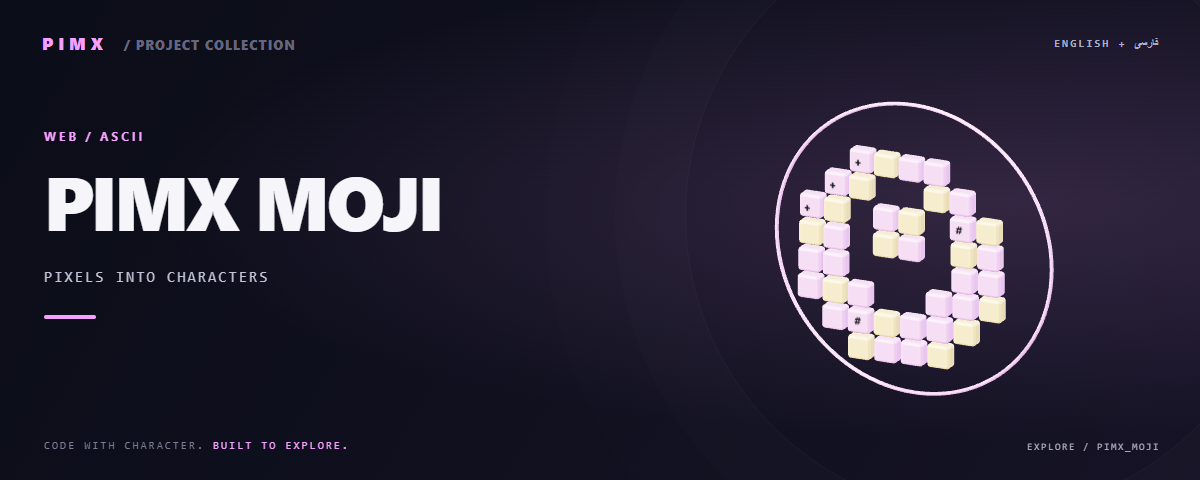
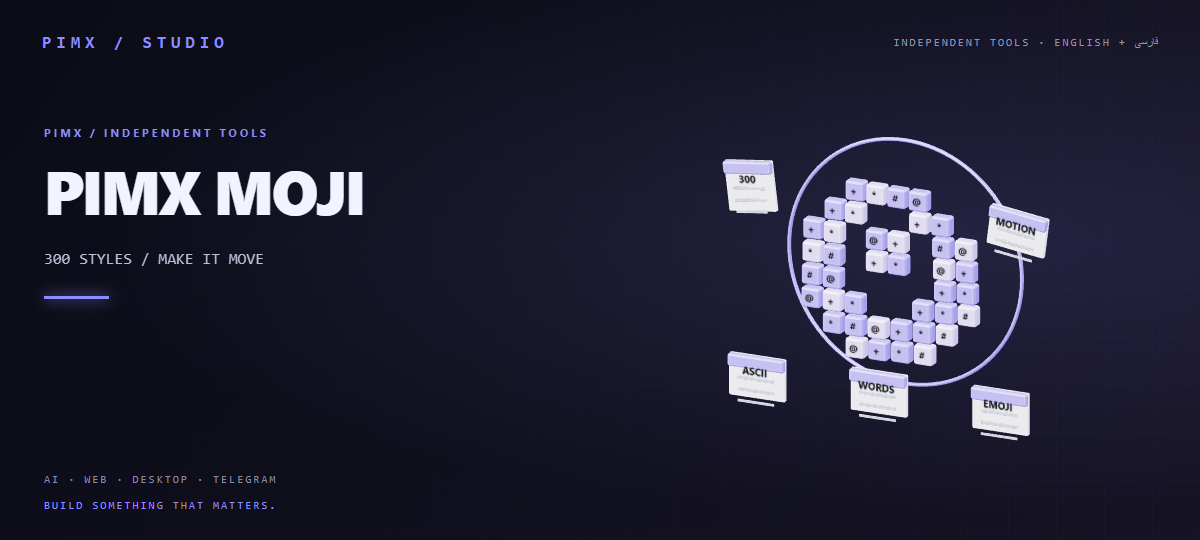
docs: replace site screenshots with original animated 3D artwork

diff --git a/README.fa.md b/README.fa.md
@@ -1,6 +1,6 @@
 <div align="center">
 
-<a href="https://pimxmoji.pages.dev/"><img src="assets/readme/hero.gif" width="1200" alt="PIMX MOJI: animated project artwork" /></a>
+<a href="https://pimxmoji.pages.dev/"><img src="assets/readme/hero.gif" width="1200" alt="PIMX MOJI: original animated 3D illustration" /></a>
 
 [English](README.md) · [فارسی](README.fa.md) · [Live website ↗](https://pimxmoji.pages.dev/)
 
@@ -11,10 +11,6 @@
 # PIMX MOJI
 
 عکسها را با ۳۰۰ سبک و پیشنمایش روی تصویر خودت به پرترهٔ ASCII، موزاییک کلمه یا هنر ایموجی تبدیل کن. با قلممو ویرایش کن، حرکت اضافه کن و خروجی PNG، متن، GIF یا ویدئو بگیر؛ پروژهها و پشتیبان قابل انتقال در مرورگرت میمانند.
-
-<a href="https://pimxmoji.pages.dev/"><img src="assets/readme/redesign.gif" width="1200" alt="پیشنمایش رابط بازطراحیشده: PIMX MOJI" /></a>
-
-[پیشنمایش رابط بازطراحیشده · PNG](assets/readme/redesign.png) · [Static artwork](assets/readme/hero.png)
 
 ## امکانات
 

diff --git a/README.md b/README.md
@@ -1,6 +1,6 @@
 <div align="center">
 
-<a href="https://pimxmoji.pages.dev/"><img src="assets/readme/hero.gif" width="1200" alt="PIMX MOJI: animated project artwork" /></a>
+<a href="https://pimxmoji.pages.dev/"><img src="assets/readme/hero.gif" width="1200" alt="PIMX MOJI: original animated 3D illustration" /></a>
 
 [English](README.md) · [فارسی](README.fa.md) · [Live website ↗](https://pimxmoji.pages.dev/)
 
@@ -11,10 +11,6 @@
 # PIMX MOJI
 
 Turn photos into ASCII portraits, word mosaics or emoji art with 300 styles and previews on your own image. Edit with brushes, add motion and export PNG, text, GIF or video; projects and portable backups stay in your browser.
-
-<a href="https://pimxmoji.pages.dev/"><img src="assets/readme/redesign.gif" width="1200" alt="Preview of the redesigned interface: PIMX MOJI" /></a>
-
-[Preview of the redesigned interface · PNG](assets/readme/redesign.png) · [Static artwork](assets/readme/hero.png)
 
 ## What you can do
 
